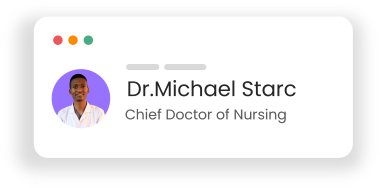
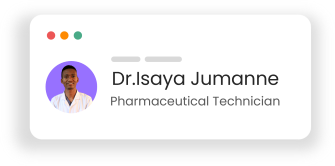
Added some content

Changed region(s): [[0.3284, 0.4217, 0.8358, 0.5422], [0.3284, 0.5723, 0.8358, 0.6627], [0.1791, 0.3916, 0.209, 0.4217]]

diff --git a/src/assets/data/faqs.js b/src/assets/data/faqs.js
@@ -1,27 +1,28 @@
 export const faqs = [
   {
-    question: "What is your medical care?",
+    question: "What services does your hospital provide?",
     content:
-      "One Medical was founded on a better model of care one designed around patients needs that provides a higher level of quality and service affordably. We do this through innovative design, excellent customer service, and the efficient use of technology.",
+      "We offer a wide range of medical services, including general consultations, diagnostics, surgical procedures, maternity care, pediatric care, and specialized treatments in cardiology, orthopedics, and more. Our mission is to provide comprehensive care tailored to your needs.",
   },
   {
-    question: "What happens if I need to go a hospital?",
+    question: "What should I do in case of a medical emergency?",
     content:
-      "One Medical was founded on a better model of care one designed around patients needs that provides a higher level of quality and service affordably. We do this through innovative design, excellent customer service, and the efficient use of technology.",
+      "In case of a medical emergency, please visit our Emergency Department immediately or contact our 24/7 emergency hotline. Our team is equipped to handle critical conditions and provide urgent care.",
   },
   {
-    question: "What happens if I need to go a hospital?",
+    question: "Do I need an appointment to visit the hospital?",
     content:
-      "One Medical was founded on a better model of care one designed around patients needs that provides a higher level of quality and service affordably. We do this through innovative design, excellent customer service, and the efficient use of technology.",
+      "For specialist consultations and general check-ups, we recommend scheduling an appointment to avoid long wait times. However, our urgent care and emergency services are available without prior appointments.",
   },
   {
-    question: "Can I visit your medical office?",
+    question:
+      "Does the hospital accept insurance, and what are the payment options?",
     content:
-      "One Medical was founded on a better model of care one designed around patients needs that provides a higher level of quality and service affordably. We do this through innovative design, excellent customer service, and the efficient use of technology.",
+      "Yes, we work with most major insurance providers and offer flexible payment options, including cash, credit/debit cards, and bank transfers. Our billing team is available to assist with any questions regarding coverage and payments.",
   },
   {
-    question: "Does you provide urgent care?",
+    question: "What happens if I need to be admitted to the hospital?",
     content:
-      "One Medical was founded on a better model of care one designed around patients needs that provides a higher level of quality and service affordably. We do this through innovative design, excellent customer service, and the efficient use of technology.",
+      "If admission is required, our staff will assist you with the process, including selecting a suitable room and completing necessary documentation. During your stay, our team will ensure you receive personalized care and support for a smooth recovery.",
   },
 ];

diff --git a/src/Components/sections/AboutSection.jsx b/src/Components/sections/AboutSection.jsx
@@ -21,16 +21,23 @@ const AboutSection = () => {
               Proud to be one of the nation&apos;s best.
             </h2>
             <p className="text_para">
-              For 30 years in a row, T.Z has recognized Lorem ipsum dolor sit
-              amet consectetur adipisicing elit. Eum, atque, incidunt voluptas
-              veniam explicabo culpa accusantium voluptatum officiis, quisquam
-              dicta vel nisi? Quae, asperiores.
+              We are driven by a commitment to excellence, delivering
+              patient-centered care that promotes wellness, prevents illness,
+              and provides effective treatment for a wide range of health
+              concerns.
             </p>
             <p className="text_para">
-              Our patients are looking for the best Lorem ipsum dolor sit amet
-              consectetur adipisicing elit. Cupiditate consequuntur maxime
-              dolore. Animi officiis eveniet hic perferendis quidem.
+              Our goal is to offer exceptional healthcare services tailored to
+              the unique needs of each patient. From preventive care to advanced
+              treatments, we strive to ensure your well-being with compassion
+              and professionalism.
             </p>
+            <p className="text_para">
+              Trust us to provide a supportive and healing environment where
+              your health is our priority. Together, we’ll help you achieve a
+              healthier, happier life.
+            </p>
+
             <Link to="/">
               <button className="btn hover:bg-blue-100 hover:border hover:border-primaryColor transition-all duration-300 hover:text-primaryColor hover:shadow-xl hover:shadow-primaryColor/20 hover:-translate-y-1">
                 Learn More

diff --git a/src/assets/data/doctors.js b/src/assets/data/doctors.js
@@ -6,32 +6,32 @@ import doctorImg03 from "../images/doctor-img03.png";
 export const doctors = [
   {
     id: "01",
-    name: "Dr. Winland Samuel",
-    specialization: "Surgeon",
+    name: "Dr. Isaya Jumanne",
+    specialization: "Pharmacist",
     avgRating: 4.8,
-    totalRating: 272,
+    totalRating: 304,
     photo: doctorImg01,
     totalPatients: 231,
-    hospital: "Mount Adora Hospital, Sylhet.",
+    hospital: "JMS Heath Care Center",
   },
   {
     id: "02",
-    name: "Dr. Jane Lymo",
-    specialization: "Neurologist",
+    name: "Dr. Blandina Nyigo",
+    specialization: "Lab Practitioner",
     avgRating: 4.8,
-    totalRating: 272,
+    totalRating: 296,
     photo: doctorImg02,
     totalPatients: 346,
-    hospital: "Mount Adora Hospital, Sylhet.",
+    hospital: "JMS Heath Care Center",
   },
   {
     id: "03",
-    name: "Dr. Ali Mtoro",
-    specialization: "Dermatologist",
+    name: "Dr. George Kalunde",
+    specialization: "Lab Technician",
     avgRating: 4.8,
     totalRating: 272,
     photo: doctorImg03,
     totalPatients: 1500,
-    hospital: "Mount Adora Hospital, Sylhet.",
+    hospital: "JMS Heath Care Center",
   },
 ];

diff --git a/src/Components/sections/HeroSection.jsx b/src/Components/sections/HeroSection.jsx
@@ -14,10 +14,12 @@ const HeroSection = () => {
                 We help patients live a healthy, longer life.
               </h1>
               <p className="text_para">
-                Lorem ipsum dolor, sit amet consectetur adipisicing elit. Minima
-                velit ut, ullam quis dignissimos, odit sunt debitis aliquam,
-                praesentium itaque repellendus repudiandae aspernatur ratione
-                rerum.
+                JMS Health Care Center Clinic is a premier healthcare facility
+                located in Dodoma, dedicated to delivering high-qulity medical
+                services to individuals and families in our community. We
+                combine compassionate care with modern medical technology to
+                ensure our patients receive the best possible treatment and
+                support.
               </p>
 
               <button className="btn py-5 hover:bg-blue-100 hover:border hover:border-primaryColor transition-all duration-300 hover:text-primaryColor hover:shadow-xl hover:shadow-primaryColor/20 hover:-translate-y-1">
